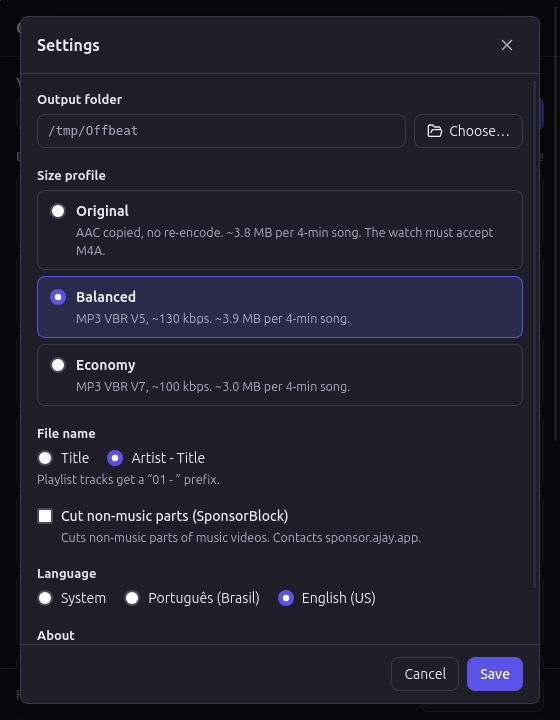
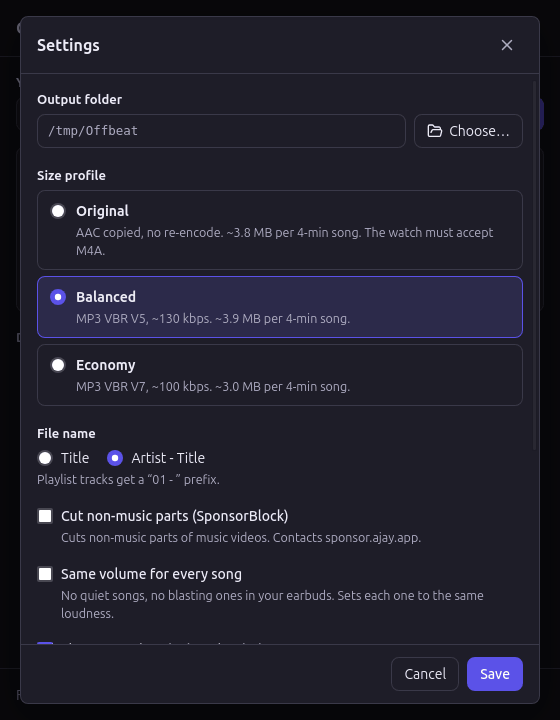
docs: new screenshots and notes from testing the new features
- preview and settings screenshots show Save playlist and the new options
- screenshot and UI-testing recipes: isolated XDG_DATA_HOME, snapshots
  through the inspector (Page.snapshotRect), Target-wrapped commands,
  WEBKIT_DISABLE_DMABUF_RENDERER and a kill pattern that spares the
  installed app
- AGENTS.md code map and current state

Changed region(s): [[0.0607, 0.7639, 0.7589, 0.9167], [0.7893, 0.825, 0.85, 0.8556]]

diff --git a/AGENTS.md b/AGENTS.md
@@ -21,6 +21,7 @@ Offbeat é um app desktop para Linux (Tauri 2 + React 19 + TypeScript, backend e
 ## Estado atual
 
 - **Versão 0.1.0** (MVP do planejamento + YouTube Music), instalada como AppImage na máquina do usuário. Testada no app com vídeo, álbum do YouTube Music, cancelamento, erros e troca de idioma.
+- Depois do MVP (ainda na 0.1.0, não publicada): vários links de uma vez, "Só esta faixa", volume igual, capítulos em faixas, histórico (pular já baixadas), playlists salvas com sincronização, atualizar o yt-dlp pelo app e notificação de fila concluída. Testados numa instância isolada com o álbum CC de Kevin MacLeod e um vídeo CC com 20 capítulos. A atualização de fato do yt-dlp só foi vista pela linha de comando (no app, a versão já era a mais recente).
 - **Pendência principal:** o teste no relógio (o GT 5 toca M4A?). Ele decide o perfil padrão; o que fazer com o resultado está em [docs/recipes.md](docs/recipes.md#depois-do-teste-no-relógio-m4a-no-gt-5).
 - Próximas ideias, em ordem, no [ROADMAP.md](ROADMAP.md).
 
@@ -42,18 +43,23 @@ cd src-tauri && cargo test && cargo clippy --all-targets -- -D warnings && cargo
 ```
 src/lib/api.ts              contrato com o backend: tipos e comandos (espelhados em Rust)
 src/App.tsx                 tela única, carga das configurações, executor da fila (2 downloads por vez)
-src/components/             UrlInput, Preview, Queue, Settings (modal), ErrorNote
+src/components/             UrlInput, Preview (+ LinkStatus), SavedPlaylists, Queue, Settings (modal), ErrorNote
 src/lib/                    lógica pura e testada: ytdlp (URL, estimativa), progress (linhas PROG/POST/DONE),
                             queue (reducer da fila), previews (links colados → itens da fila),
                             errors (classifica o stderr), format (Intl)
 src/i18n/                   pt-BR.ts (fonte das chaves), en-US.ts, translate.ts, index.tsx (provider)
 src/styles.css              tokens de cor claro/escuro (segue o sistema)
 src-tauri/src/lib.rs        builder do Tauri, plugins, estado, limpeza da pasta temporária
-src-tauri/src/downloads.rs  comandos preview, download, cancel_download, open_output_dir, output_dir_size
+src-tauri/src/downloads.rs  comandos preview, download, cancel_download, open_output_dir, output_dir_size,
+                            history_count, clear_history
+src-tauri/src/history.rs    histórico de downloads (~/.local/share/offbeat/history.txt) e id do vídeo pela URL
+src-tauri/src/playlists.rs  playlists salvas (playlists.json) e seus comandos
+src-tauri/src/updater.rs    atualizar o yt-dlp pelo app (cópia em ~/.local/share/offbeat/bin, yt-dlp -U)
+src-tauri/src/notify.rs     notificação do sistema pelo D-Bus quando a fila termina
 src-tauri/src/ytdlp.rs      funções puras: validação de URL, argumentos do yt-dlp, leitura do JSON de preview
 src-tauri/src/process.rs    processos em grupo próprio, leitura de linhas, timeout e kill
 src-tauri/src/settings.rs   ~/.config/offbeat/settings.json (validação e gravação atômica)
-src-tauri/src/sidecar.rs    caminhos dos sidecars e tool_versions
+src-tauri/src/sidecar.rs    caminhos dos sidecars e tool_versions (do yt-dlp em uso)
 src-tauri/tauri.conf.json   janela, CSP, bundle e externalBin
 src-tauri/capabilities/     permissões do WebView (mínimas)
 scripts/fetch-binaries.sh   baixa e confere (SHA-256) os sidecars e salva as licenças deles

diff --git a/docs/ui-conventions.md b/docs/ui-conventions.md
@@ -47,10 +47,10 @@ Os READMEs são um passo a passo ilustrado. As capturas ficam em `docs/images/`,
 | Arquivo | Passo |
 | --- | --- |
 | `paste-{en,pt}.png` | link do YouTube Music colado, pasta vazia (0 B) |
-| `preview-{en,pt}.png` | pré-visualização do álbum |
+| `preview-{en,pt}.png` | pré-visualização do álbum, com "Salvar playlist" (nenhuma playlist salva nem histórico) |
 | `downloading-{en,pt}.png` | fila no meio: concluídas, convertendo, iniciando, na fila e total da pasta subindo (também é a imagem do topo) |
 | `done-{en,pt}.png` | tudo concluído, com "Abrir pasta" |
-| `settings-{en,pt}.png` | Configurações |
+| `settings-{en,pt}.png` | Configurações, no topo (pasta, perfis, nome, SponsorBlock, volume igual) |
 
 Regras, porque o repositório é público:
 
@@ -60,9 +60,9 @@ Regras, porque o repositório é público:
 
 Como refazer:
 
-1. Rode uma instância isolada, que não toca nas configurações nem na pasta de música reais (pode rodar junto com o app instalado): `npm run dev` e, em outro terminal, `XDG_CONFIG_HOME=/tmp/ob-config XDG_CACHE_HOME=/tmp/ob-cache WEBKIT_INSPECTOR_HTTP_SERVER=127.0.0.1:9223 ./src-tauri/target/debug/offbeat`, com `/tmp/ob-config/offbeat/settings.json` apontando `outputDir` para `/tmp/Offbeat` e `language` para o idioma da rodada.
-2. Siga o fluxo (colar → Visualizar → Baixar 11 faixas → esperar → Configurações) e capture cada passo. A captura do meio vale quando há ≥ 3 concluídas e ainda há downloads. Antes da rodada do outro idioma, apague os `.mp3` de `/tmp/Offbeat`, senão o yt-dlp pula as faixas e não há progresso para fotografar.
-3. Capture só a janela com `ffmpeg -f x11grab` (o `xwd` sai em branco com o WebKit; veja [recipes.md](recipes.md#testar-a-interface-de-verdade)) e reduza para 128 cores, o que deixa cada PNG com 10–28 KB:
+1. Rode uma instância isolada, que não toca nas configurações nem na pasta de música reais (pode rodar junto com o app instalado): `npm run dev` e, em outro terminal, `XDG_CONFIG_HOME=/tmp/ob-config XDG_CACHE_HOME=/tmp/ob-cache XDG_DATA_HOME=/tmp/ob-data WEBKIT_INSPECTOR_HTTP_SERVER=127.0.0.1:9223 ./src-tauri/target/debug/offbeat`, com `/tmp/ob-config/offbeat/settings.json` apontando `outputDir` para `/tmp/Offbeat` e `language` para o idioma da rodada. O `XDG_DATA_HOME` isola o histórico e as playlists salvas.
+2. Siga o fluxo (colar → Visualizar → Baixar 11 faixas → esperar → Configurações) e capture cada passo. A captura do meio vale quando há ≥ 3 concluídas e ainda há downloads. Antes da rodada do outro idioma, apague os `.mp3` de `/tmp/Offbeat` e o `history.txt` e o `playlists.json` de `/tmp/ob-data/offbeat/`, senão o app pula as faixas ("Baixar N novas") e a playlist aparece como salva.
+3. Capture a página pelo inspetor com `Page.snapshotRect` (veja [recipes.md](recipes.md#testar-a-interface-de-verdade)): pega só o conteúdo da janela, mesmo que ela esteja atrás de outras. O `ffmpeg -f x11grab` também serve, mas captura a tela, então a janela precisa estar na frente. Depois reduza para 128 cores, o que deixa cada PNG com 10–28 KB:
 
 ```bash
 ffmpeg -i captura.png -vf "split[a][b];[a]palettegen=max_colors=128[p];[b][p]paletteuse=dither=none" docs/images/downloading-pt.png

diff --git a/docs/recipes.md b/docs/recipes.md
@@ -57,4 +57,4 @@ Para o usuário, o botão **Atualizar yt-dlp** nas Configurações resolve sem r
 
 ## Testar a interface de verdade
 
-Para testar sem tocar nas configurações nem na pasta de música do usuário: rode o app com `XDG_CONFIG_HOME` e `XDG_CACHE_HOME` temporários e uma pasta de saída temporária. Para inspecionar a página: `WEBKIT_INSPECTOR_HTTP_SERVER=127.0.0.1:9223` (veja [development.md](development.md#depurar-o-webview)). Cliques e teclas com `xdotool` funcionam em X11. Use coordenadas absolutas (`xwininfo`), porque a posição relativa do `xdotool getwindowgeometry` desconta a decoração da janela errado. Capture a tela com `ffmpeg -f x11grab`, porque o `xwd` sai em branco com o WebKit.
+Para testar sem tocar nas configurações, no histórico nem na pasta de música do usuário: rode o app com `XDG_CONFIG_HOME`, `XDG_CACHE_HOME` e `XDG_DATA_HOME` temporários e uma pasta de saída temporária. Se o app fechar com "Could not create GBM EGL display", rode com `WEBKIT_DISABLE_DMABUF_RENDERER=1`. Para encerrar só a instância de teste, use `pkill -f '^\./target/debug/offbeat$'`: o app instalado também se chama `offbeat`, e um padrão solto encerra o próprio comando. Para inspecionar a página: `WEBKIT_INSPECTOR_HTTP_SERVER=127.0.0.1:9223` (veja [development.md](development.md#depurar-o-webview)). No WebSocket, espere o evento `Target.targetCreated` e mande cada comando embrulhado em `Target.sendMessageToTarget` (`{targetId, message: "<JSON do comando>"}`); as respostas chegam em `Target.dispatchMessageFromTarget`. `Runtime.evaluate` não espera promessas, então rode código síncrono e consulte de novo até o estado mudar. Para clicar e digitar, é mais confiável fazer pelo próprio JS da página (`button.click()`, o setter de `value` do `HTMLInputElement` + evento `input`, `form.requestSubmit()`) do que pelo `xdotool`. `Page.snapshotRect` `{x: 0, y: 0, width: 560, height: 720, coordinateSystem: "Viewport"}` devolve um PNG da página em `dataURL`. Cliques e teclas com `xdotool` funcionam em X11. Use coordenadas absolutas (`xwininfo`), porque a posição relativa do `xdotool getwindowgeometry` desconta a decoração da janela errado. Capture a tela com `ffmpeg -f x11grab`, porque o `xwd` sai em branco com o WebKit.
